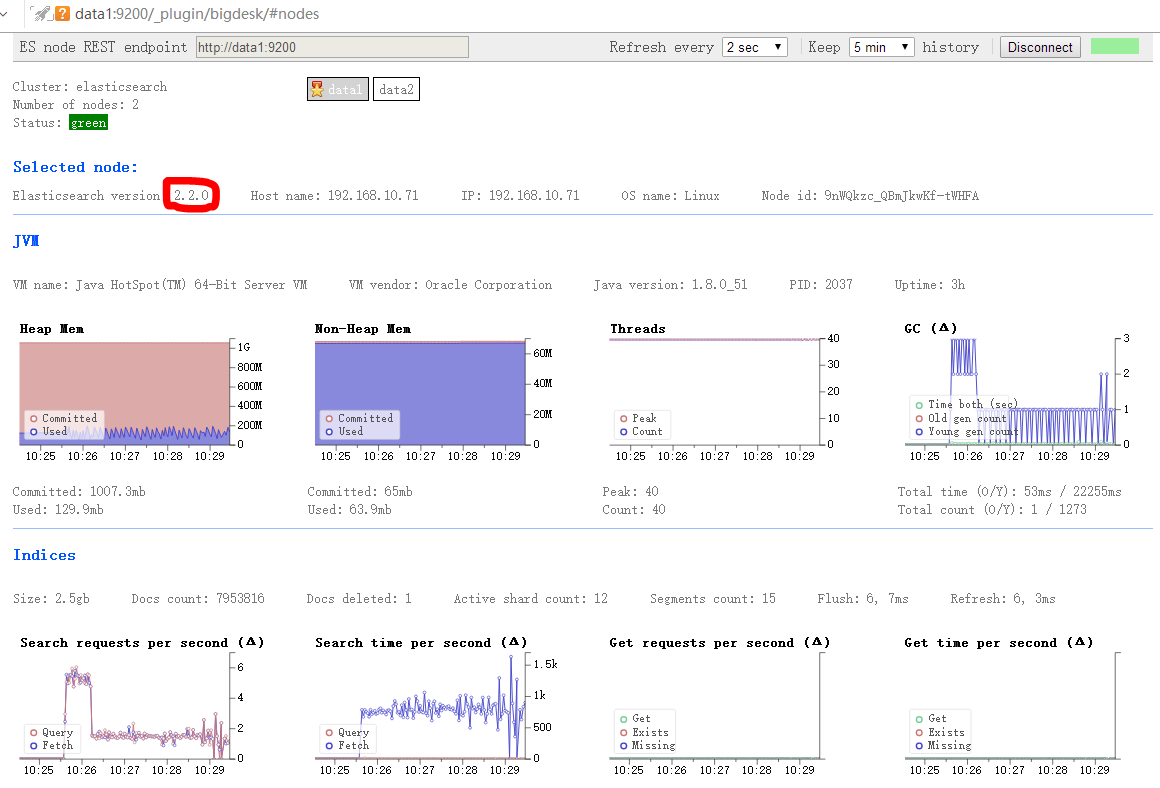
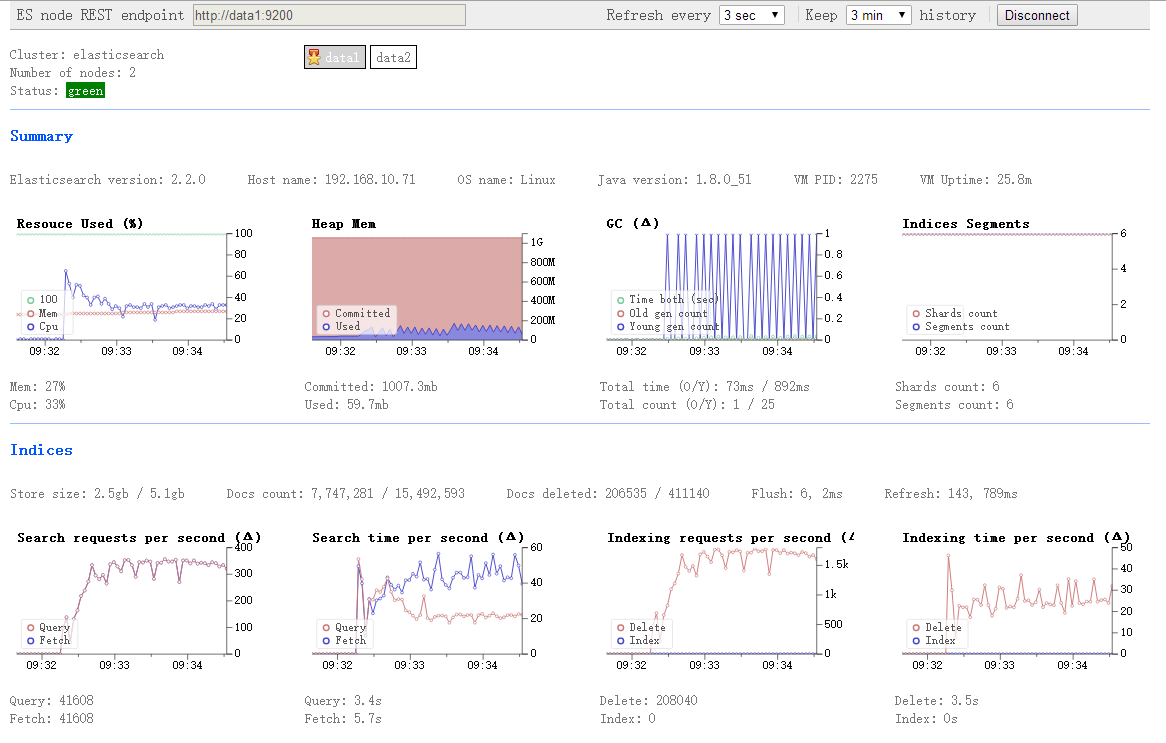
support es2.x

diff --git a/README.md b/README.md
@@ -2,6 +2,9 @@
 
 Live charts and statistics for Elasticsearch 2.x cluster.
 
+## 2016-03-23
+- Modify and relayout some metrics and charts
+
 ## 2016-03-21
 - Support for Elasticsearch 2.x
 
